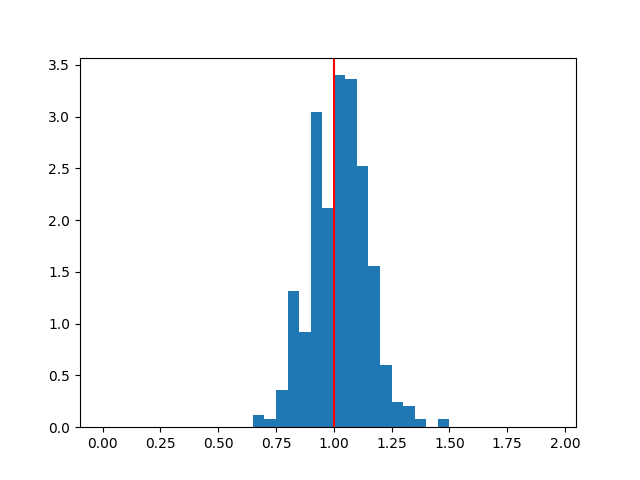
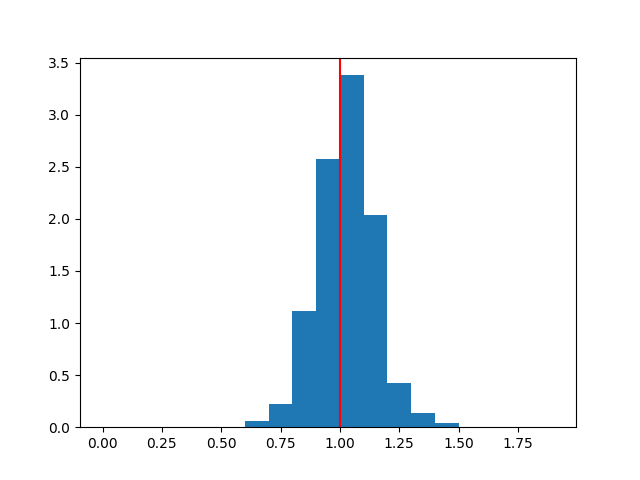
update

diff --git a/Logit/theta_estimator.py b/Logit/theta_estimator.py
@@ -44,13 +44,13 @@ def run_sim(theta0, n, zeta, values, m):
     toc = time.time()
     print('total elapsed time = ' + str((toc-tic)/60))
 
-    t_df.to_csv('sim'+fmt+'.csv')
+    t_df.to_csv('data/sim'+fmt+'.csv')
 
     plt.figure()
     bins_edges = np.arange(0.0, 2.0, 0.05)
     plt.hist(thetas, density = True, bins = bins_edges)
     plt.axvline(x = theta0, color = 'red')
-    plt.savefig('histogram_theta'+fmt+'.png')
+    plt.savefig('figures/histogram_theta'+fmt+'.png')
     return 
 
 

diff --git a/Logit/histograms_plots.py b/Logit/histograms_plots.py
@@ -3,10 +3,10 @@ import matplotlib.pyplot as plt
 import pandas as pd
 
 zeta = 0.3
-alpha = 1.0
+n = 1000
 theta0 = 1.0
-fmt ='_zeta'+"{:.2f}".format(zeta)+'_theta'+"{:.2f}".format(theta0)
-sim_df = pd.read_csv('data/sim_thetas'+fmt+'.csv')
+fmt ='_zeta' +"{:.2f}".format(zeta)+'_theta0'+"{:.2f}".format(theta0) + '_n' + str(n)
+sim_df = pd.read_csv('data/sim'+fmt+'.csv')
 
 plt.figure()
 plt.hist(sim_df['theta'], density = True, bins = np.arange(0.0, 2.0, 0.1))
